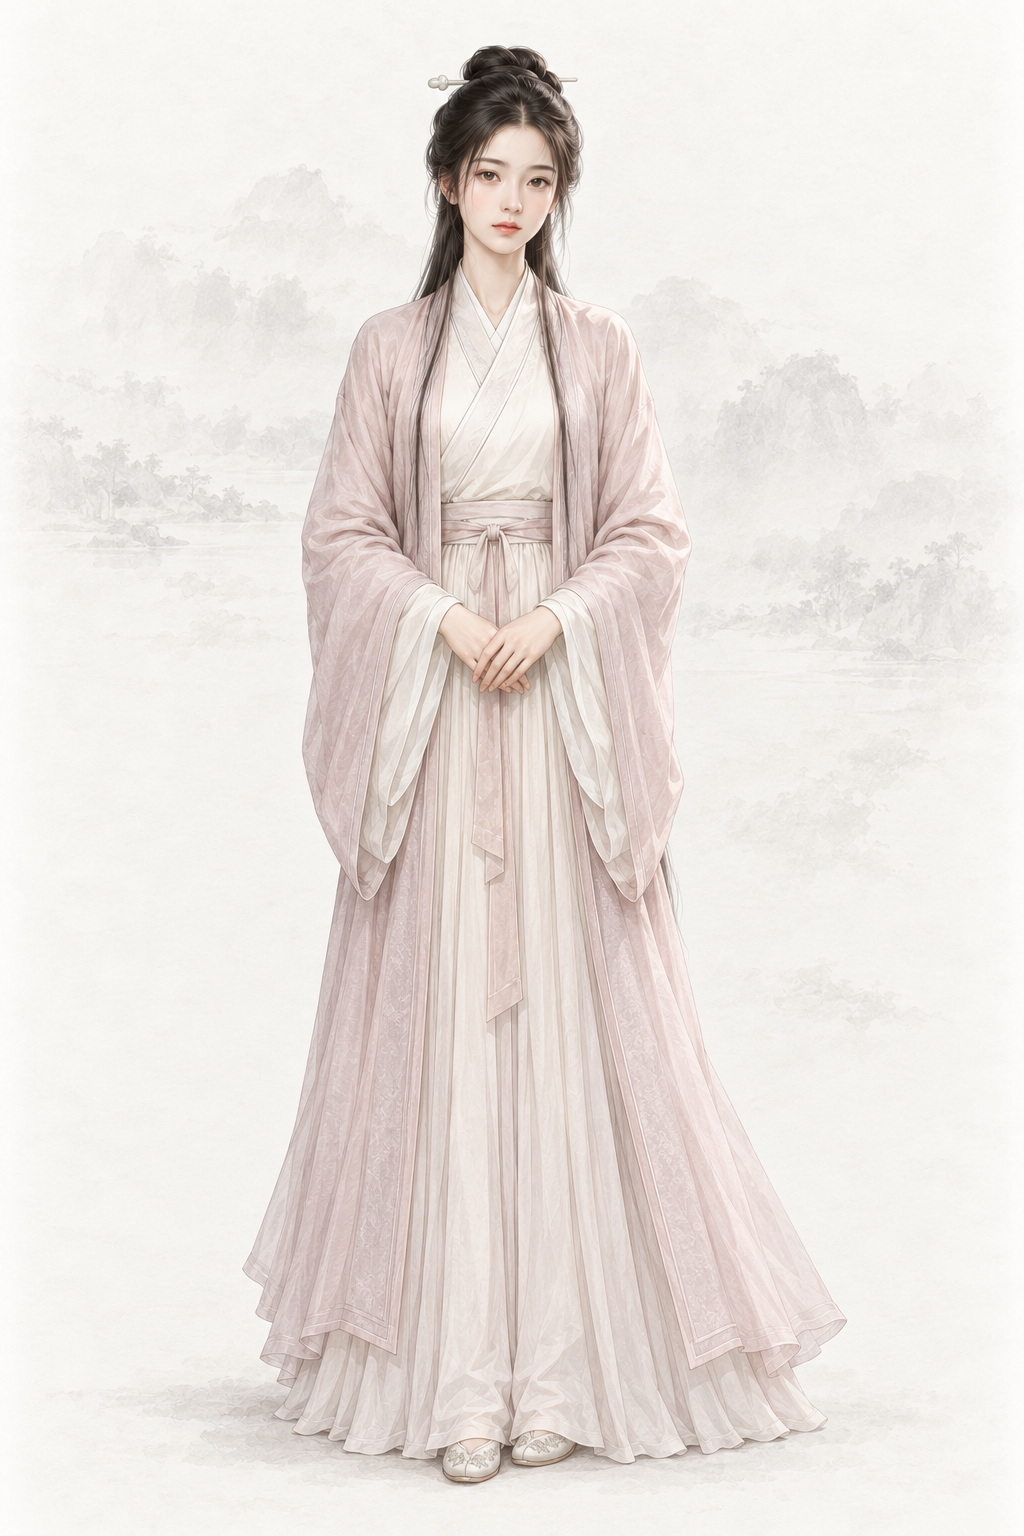
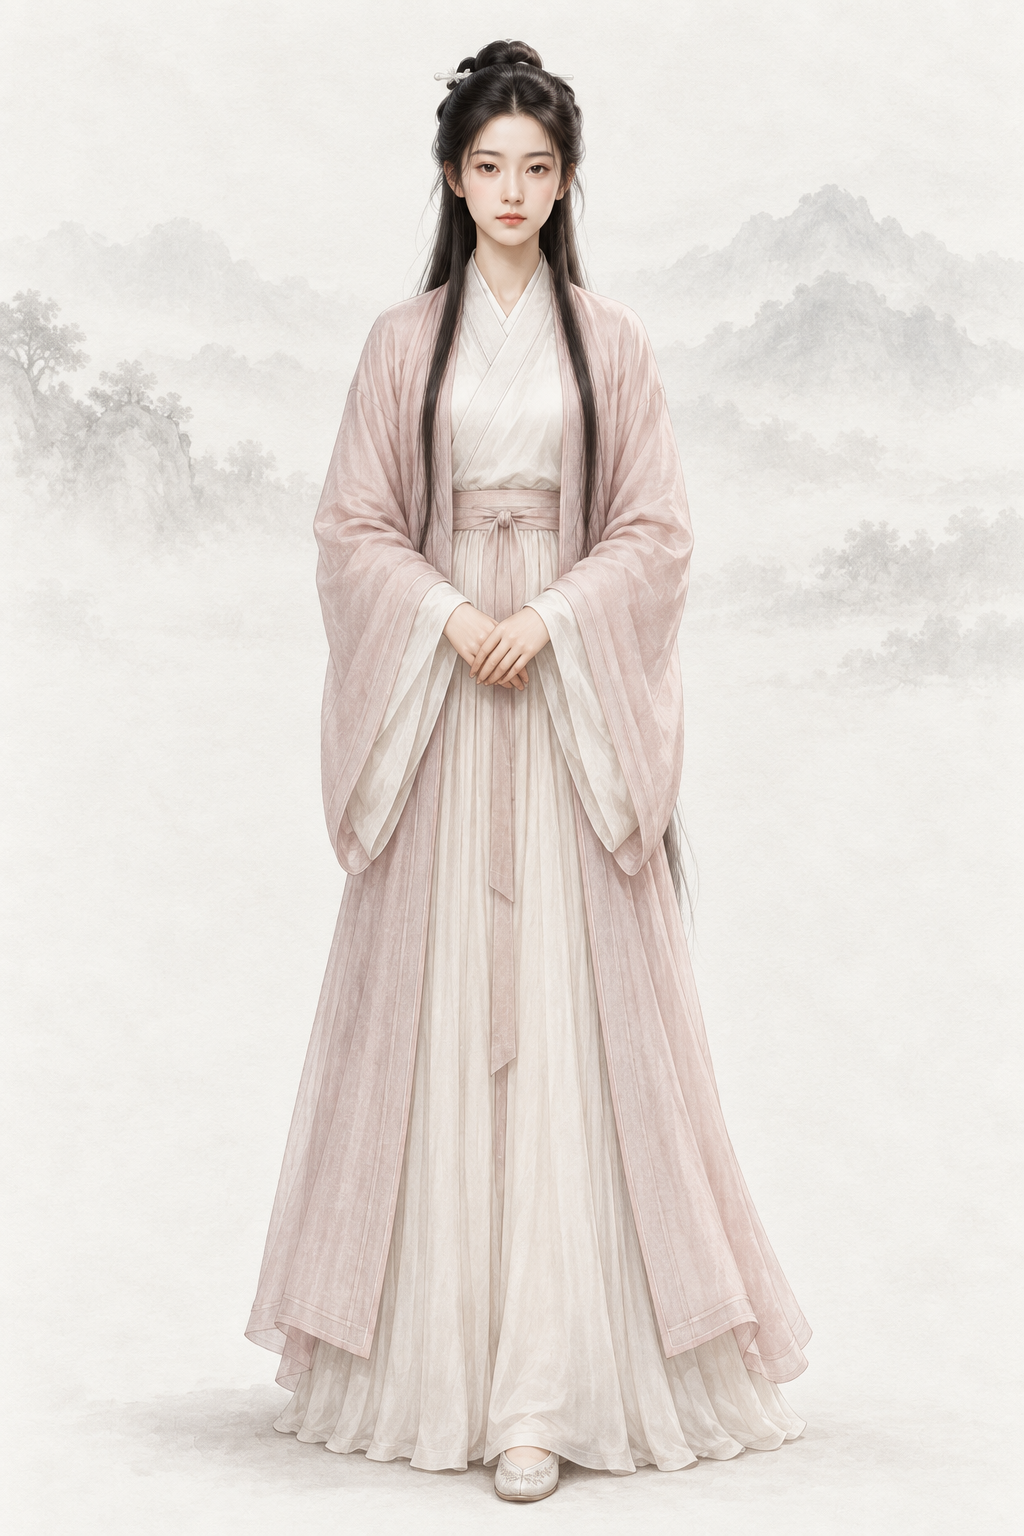
assets(character): por_npc_wangyuyan__ch01_youth_mantuo_base 王语嫣（codex · AR-32 经典剧照 + 基线）
参考 2003 央视《天龙八部》 剧照（classic_wangyuyan_2003.png）与两张同性别基线重出；提示词写回、frontmatter 加 classic_ref。

diff --git a/assets/default/prompts/characters/ch01-tianlong/npc_wangyuyan.md b/assets/default/prompts/characters/ch01-tianlong/npc_wangyuyan.md
@@ -18,13 +18,40 @@ references:
 status: redo
 redo_reason: "面容源自剧集剧照，有真人肖像风险，按原著“神仙姐姐”的清雅书卷气用文字原创重做，连同五幅场景"
 reference_upload:
+- .agents/coord/imagegen-reference/hero-20261001/classic_wangyuyan_2003.png
 - assets/default/baseline/character/female/ref_npc_wangyuyan__ch01_base01.png
+- assets/default/baseline/character/female/ref_npc_xiaolongnv__ch03_base01.png
 codex_prompt_rev: 2026-10-02
+classic_ref:
+  version: 2003 央视《天龙八部》
+  stills:
+  - .agents/coord/imagegen-reference/hero-20261001/classic_wangyuyan_2003.png
 ---
 
 # 王语嫣 · 《天龙八部》（ch01）
 
 ## Gemini 提示词
+
+> 2026-10-02 AR-32 重出（5 号出图员，codex exec · image_gen）：主要角色改为参考经典影视版剧照加项目基线生成。上传顺序：2003 央视《天龙八部》 剧照 1 张（classic_wangyuyan_2003.png），最后两张为同性别画风基线（缩小版 JPEG）。剧照只借造型、气质与面部特征，画面按项目画风重绘、不复制照片。上一版（AR-31 文字版）保留在下一节作历史。
+
+```text
+生成一张 2:3 竖幅全身人物立绘：单人、单一视角、完整全身——头顶、双手、双脚和手中器物的两端都在画面内，四周留出自然空白；人物站姿自然，身体基本朝向正面，头部端正（不歪头、不仰不俯），镜头平视。
+【画风】写实手绘古风人物插画，与本项目写实武侠角色立绘同一画风：人物是完整、坚实、比例真实的写实绘画；皮肤有真实质感——细小毛孔、细纹、晒痕、轻微色斑和自然的左右不对称，不磨皮、不油亮；头发有一根根的发丝和自然碎发；布料看得出经纬纹理、厚薄和自然垂坠的褶皱，带穿用过的轻微旧化，但完整不破烂；整体设色低饱和、沉稳；柔和的自然光从左上方照来，明暗过渡自然，不打舞台光、轮廓光或美颜柔光。这是手绘写实绘画，不是照片，不是三维渲染，也不是动漫或游戏 CG。
+【背景】不透明的暖浅灰色纸底，只在远处有极淡的水墨远山和薄雾，大面积留白；人物与背景明暗分明、轮廓边缘干净完整（后续要自动抠图），水墨和纸纹只在背景里，不侵入人物和衣服；脚下只有很淡的一点接触阴影。
+【人物】王语嫣，《天龙八部》北宋姑苏曼陀山庄的小姐，熟读天下武学典籍、自己却不会武功；脱困曼陀山庄、与段誉等人江南同行的阶段。容貌与无量山玉像一模一样，人称“神仙姐姐”。
+【年龄与体态】约二十岁的成年女子，身形修长匀称。成年女性的身体比例（约 7 头身），衣着完整端庄、不透明、不暴露、不性感化。
+【经典造型】以新世纪初经典大陆剧里那位「神仙姐姐」为蓝本（见剧照）：清丽脱俗、温婉娴静，乌黑长发半挽、其余长发柔顺地垂在背后，一身淡雅的浅色衣裙；眉眼间带一缕书卷气和淡淡的愁思，美得不食人间烟火。
+【面容】修长柔和的鹅蛋脸、额头光洁，眉毛细长如远山、颜色偏淡，眼睛清澈、眼尾略长微垂，带书卷气和一缕淡淡的愁思，鼻梁细直小巧，唇薄色淡，下颌柔和；肤色白皙、气色清淡、几乎不施脂粉。美在清雅脱俗与书卷气，不是浓艳；与阿朱的灵动、木婉清的冷峻、主角的英气都要明显不同。清雅绝俗、美若天仙。
+【发式】乌黑长发半挽：头顶挽一个小巧的发髻、插一支素白玉簪，其余长发柔顺地垂在背后。
+【服饰】极淡的藕荷色直领对襟长褙子，暖白交领右衽窄袖内衫，浅藕灰齐腰长裙，素色平底鞋；衣饰简净，没有繁复珠翠和飘带。
+【道具】空手，双手在腰前自然相叠。
+【姿态与神情】正面站立，下颌平稳，目光清澈地望向前方，神情娴静、若有所思，又透着对武学了然于胸的笃定。
+【不要】画面里不要任何文字、题款、印章、签名、水印、边框、分格或多视图；不要第二个人；不要幼态（童颜、娃娃脸、婴儿肥、儿童或少年身材、大头小身）；不要塑料感皮肤、磨皮美颜、网红脸（尖下巴大眼高鼻的模板脸）、过度对称、浓妆、偶像式打光、蜡像感；不要照片质感、三维渲染或动漫大眼；不要歪头、斜镜头；不要多指、缺指（设定的伤残除外）、手与器物粘连或悬空；汉式交领必须右衽（穿着者的左襟压在右襟上），不要左衽（设定为少数民族服制的除外），不要水平镜像；不要现代物品、发光特效、法阵或能量光。不要网红大眼、浓妆、艳丽红唇；不要繁复珠翠、披帛、仙气光效；不要佩剑或武打姿势；不要手持芦苇或花枝。
+【参考图】随提示词上传的参考图共 3 张，按顺序：第 1 张是这个角色经典影视造型的剧照：借鉴其发型、服饰、配色、标志道具、气质和面部特征，让人一眼认出是这个角色；但必须重新绘制成本项目的画风，不要照片质感，不要照搬剧照的构图、光影、背景和姿势，也不要做成照片修图；剧照与上文文字有出入时，以上文文字为准。最后两张是本项目的立绘画风基线：画风、用色、光线、质感和暖浅灰纸底加淡水墨的背景以它们为准——精细写实的数字手绘插画，不是油画，不要厚涂笔触和画布纹理；基线图里人物的长相、年龄、发型、服饰和姿势一律不取。
+【去 AI 味】手绘插画质感，不是 CG 渲染：不要过度光滑的皮肤、完美对称的五官、塑料高光、过度锐利的发丝；保留自然的笔触和细微不完美。
+```
+
+## AR-31 文字版 Gemini 提示词（2026-10-02 凌晨；AR-32 剧照版之前，历史，不再用于出图）
 
 > 2026-10-02 AR-31 改写（1 号出图员，codex exec · image_gen 出图）：重要人物借鉴经典影视造型，只写成文字——不写演员名、不上传剧照、原创面孔；主角和美人画得好看，去 AI 味，禁止幼态。出图时上传两张同性别基线立绘作画风参考（放在最后）。审核组原稿保留在下一节作历史。
 
